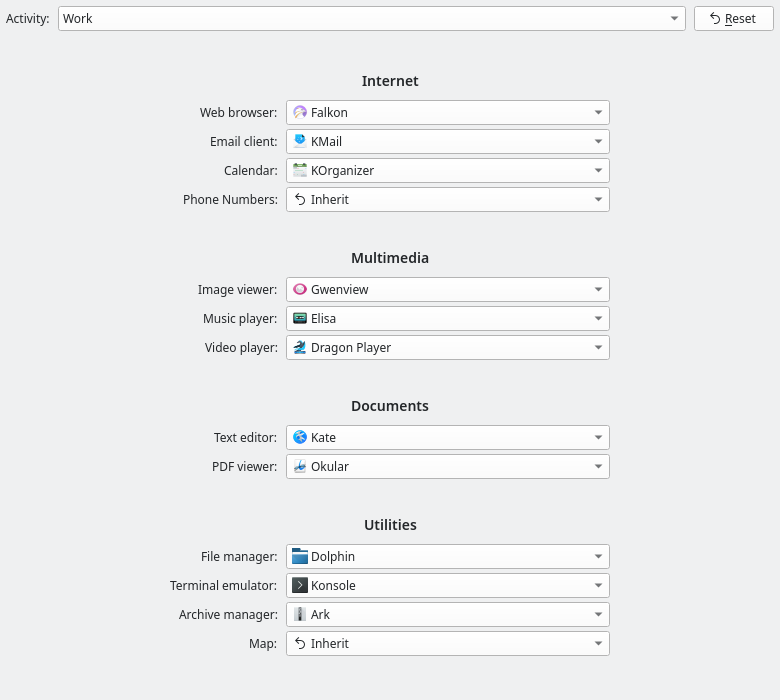
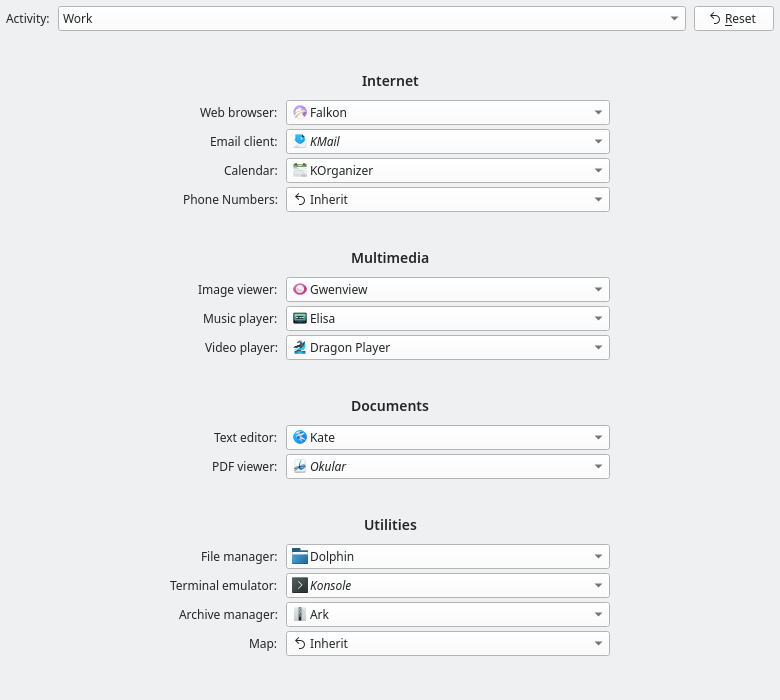
Paint the picker's closed field so a fallback name renders in italics
The KDE styles paint a combo box's closed field with a QStyle-backed item
(KQuickStyleItem), which sets the painter's font from the QComboBox widget
class - QApplication::font(classNameForItem()) - and never from the control,
so the italic that marks a fallback binding (main.qml) never reached the
field's text. Qt's Basic style does not bind the control's font to its field
either.

Draw the field's text here instead. A read-only, never-focused T.TextField
content item bound to comboBox.font (which the org.kde desktop style also
expects: its mobile cursor calls positionToRectangle() on the content item)
paints the name in the control's font. The QStyle item's own `text` is blanked
so the name is not painted twice, and 24px left/right padding - the same the
style's own editable combo reserves for its icon - keeps the text clear of the
icon and arrow that item paints.

Pinned by verifyClosedFieldRenders(), which reads the closed field's visible
content item: Firefox plain on an explicit binding, KMail italic on a fallback,
Inherit plain when the component is unset.

Refresh both README screenshots and say what the italic means.

diff --git a/kcm/ui/ComponentComboBox.qml b/kcm/ui/ComponentComboBox.qml
@@ -12,6 +12,7 @@
 
 import QtQuick
 import QtQuick.Controls as QQC2
+import QtQuick.Templates as T
 import org.kde.kirigami as Kirigami
 
 QQC2.ComboBox {
@@ -48,9 +49,59 @@ QQC2.ComboBox {
     }
 
     // The closed field carries the selected Application's icon, as the Default
-    // Applications combo does. The org.kde.desktop style reads this hint; other
-    // styles simply draw no icon.
+    // Applications page's combo does. The org.kde desktop style reads this hint
+    // and paints the icon into the field itself; other styles draw no icon.
     Kirigami.StyleHints.iconName: (currentIndex >= 0 && currentIndex < count) ? (model[currentIndex].icon ?? "") : ""
+
+    // A style that paints the field with a QStyle-backed item (the KDE styles'
+    // KQuickStyleItem) draws the text in the application font for the QComboBox
+    // widget class - KQuickStyleItem::paint sets the painter font from
+    // QApplication::font(classNameForItem()), never from the control - which is
+    // why the italic marking a fallback binding (main.qml) has to be painted
+    // here. Only those items carry `text`; Qt's Basic style draws the field's
+    // text with its content item and is left untouched below.
+    readonly property bool qstyleField: !!(background && "text" in background)
+
+    // The field's text, drawn here so the control's font reaches it (the
+    // Qt Quick Basic style's own content item does not bind the control's font
+    // either). A T.TextField is also what the org.kde desktop style's combo
+    // expects: its mobile cursor calls positionToRectangle() on the content
+    // item. Read-only and never focused, so it only paints.
+    contentItem: T.TextField {
+        text: comboBox.displayText
+        font: comboBox.font
+        color: Kirigami.Theme.textColor
+        verticalAlignment: Text.AlignVCenter
+        readOnly: true
+        selectByMouse: false
+        activeFocusOnTab: false
+        clip: true
+    }
+
+    // A QStyle item would paint the text it was handed too, so hand it none
+    // (its `text` is the field's text), or the name is drawn twice.
+    Binding {
+        target: background
+        property: "text"
+        value: ""
+        when: comboBox.qstyleField
+    }
+
+    // The text has to clear the icon that item paints at the field's left, and
+    // the arrow it paints at its right. The style's own editable combo reserves
+    // the same 24px on the left for exactly that icon.
+    Binding {
+        target: comboBox
+        property: "leftPadding"
+        value: 24
+        when: comboBox.qstyleField
+    }
+    Binding {
+        target: comboBox
+        property: "rightPadding"
+        value: 24
+        when: comboBox.qstyleField
+    }
 
     // The entry rendering. The KDE styles host the entries in a Menu (a
     // Repeater over the delegate model, or a Menu whose delegate is this one),

diff --git a/tests/kcm_qml/tst_kcm_qml.cpp b/tests/kcm_qml/tst_kcm_qml.cpp
@@ -27,6 +27,7 @@
 
 #include <QEventLoop>
 #include <QFile>
+#include <QFont>
 #include <QJsonObject>
 #include <QLibraryInfo>
 #include <QQmlComponent>
@@ -167,6 +168,29 @@ QQuickItem *rowForComponent(QQuickItem *root, Component component)
         }
     }
     return nullptr;
+}
+
+// The picker draws its own closed field (ComponentComboBox.qml): the KDE
+// styles' QStyle-backed background paints a combo's text in the application
+// font for the QComboBox widget class (KQuickStyleItem::paint), and Qt's Basic
+// style does not bind the control's font to its field either, so the italic
+// that marks a fallback binding (main.qml) never reached the text. Only pixels
+// show that, so pin what draws the name instead: the visible content item,
+// carrying the control's font, in front of a background item that was handed no
+// text of its own (whose QStyle would otherwise paint the name again, upright).
+void verifyClosedFieldRenders(QObject *combo, const QString &text, bool italic)
+{
+    QVERIFY(combo);
+    QObject *background = combo->property("background").value<QObject *>();
+    QVERIFY(background);
+    if (background->metaObject()->indexOfProperty("text") != -1) {
+        QCOMPARE(background->property("text").toString(), QString());
+    }
+    QObject *field = combo->property("contentItem").value<QObject *>();
+    QVERIFY2(field, "the picker has no closed field");
+    QVERIFY2(field->property("visible").toBool(), "the picker's closed field is not drawn");
+    QCOMPARE(field->property("text").toString(), text);
+    QCOMPARE(field->property("font").value<QFont>().italic(), italic);
 }
 
 // The entries a ComboBox popup renders. The KDE desktop style puts them in the
@@ -660,6 +684,7 @@ void KcmQmlSmokeTest::explicitBindingRowShowsTheBoundApplication()
     QVERIFY2(combo, "no picker rendered for Browser");
     QCOMPARE(combo->property("currentValue").toString(), QStringLiteral("firefox.desktop"));
     QCOMPARE(combo->property("currentText").toString(), QStringLiteral("Firefox"));
+    verifyClosedFieldRenders(combo, QStringLiteral("Firefox"), false);
 }
 
 void KcmQmlSmokeTest::fallbackBindingRowShowsTheBaselineApplication()
@@ -675,6 +700,7 @@ void KcmQmlSmokeTest::fallbackBindingRowShowsTheBaselineApplication()
     QVERIFY2(combo, "no picker rendered for Email");
     QCOMPARE(combo->property("currentValue").toString(), QStringLiteral("kmail.desktop"));
     QCOMPARE(combo->property("currentText").toString(), QStringLiteral("KMail"));
+    verifyClosedFieldRenders(combo, QStringLiteral("KMail"), true);
 }
 
 void KcmQmlSmokeTest::unsetComponentRowShowsTheInheritEntry()
@@ -691,6 +717,8 @@ void KcmQmlSmokeTest::unsetComponentRowShowsTheInheritEntry()
     QVERIFY2(combo, "no picker rendered for Terminal");
     QCOMPARE(combo->property("currentIndex").toInt(), 0);
     QCOMPARE(combo->property("currentText").toString(), QStringLiteral("Inherit"));
+    // Only a fallback is marked; an unset Component shows the plain entry.
+    verifyClosedFieldRenders(combo, QStringLiteral("Inherit"), false);
 }
 
 void KcmQmlSmokeTest::activitySelectorMarksTheBaselineActivity()

diff --git a/README.md b/README.md
@@ -14,7 +14,8 @@ parts:
 ## Screenshots
 
 The System Settings module, shown with the sample activities *Home* (baseline)
-and *Work*:
+and *Work*. An italic name (KMail, Okular, Konsole) is one *Work* inherits from
+the baseline rather than setting itself; *Inherit* is an unset component.
 
 | Per-activity profile | Component picker |
 | -------------------- | ---------------- |
